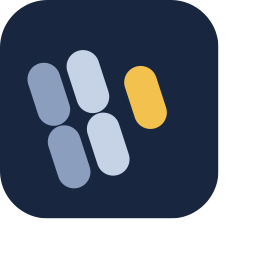
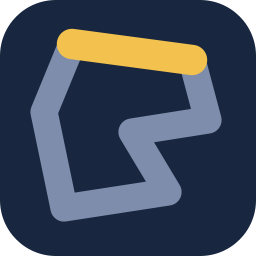
feat(brand): the mark becomes a circuit, not a peloton
The peloton seen from above answered "where am I in this bunch". That
was a race-finder's question, and this is no longer a race finder — it
is meant to give an amateur the preparation a professional gets: who is
racing, what the circuit does, which way the wind crosses it. The mark
was answering a question the product had stopped asking.

French amateur racing is laps of a village loop. The mark is that loop,
traced the way a route is drawn on a map, with one stretch in the yellow
of a course arrow — the sector where the race is decided. Anyone can
tell a rider that a race exists; this says where it is won.

Four directions were drawn and compared at 16, 24 and 96px. A soft
closed curve read as a pebble rather than a circuit, so the loop keeps
its straights and corners. Riders strung along the circuit — the idea
that would settle any motorsport ambiguity — disappear entirely below
24px, so the wordmark carries that job instead.

diff --git a/components/brand/Logo.tsx b/components/brand/Logo.tsx
@@ -1,13 +1,29 @@
 import { cn } from "@/lib/utils";
 
 /**
- * The peloton, seen from above.
+ * A circuit, with the sector that decides it.
  *
- * Two ranks of riders and one off the front — the product's own thesis, that
- * you are somewhere in this bunch and the point is to know where. It replaces
- * a stock bicycle icon that a thousand other apps also use, and it is drawn
- * from five capsules so it survives down to a 16px tab icon.
+ * French amateur racing is laps of a village loop, and this product exists to
+ * tell a rider what that loop will do to them before they start — who is on it,
+ * where it climbs, which way the wind crosses it. So the mark is the circuit,
+ * traced the way a route is drawn on a map, with one stretch picked out in the
+ * yellow of a course arrow: the place the race is won.
+ *
+ * It replaced a peloton seen from above, which answered a different question —
+ * "where am I in this bunch" — from a product that had become about arriving
+ * prepared rather than about finding races.
+ *
+ * Drawn from two paths so it survives a 16px tab icon: at that size it reads as
+ * a dark loop with a bright straight, which is enough to recognise.
  */
+
+/** Straights and corners, because a lap has both. A soft blob read as a pebble. */
+const CIRCUIT =
+  "M 9 5.5 L 24 7.5 L 26 15 L 16.5 16.5 L 21 24 L 8 26 L 5.5 14 Z";
+
+/** The opening straight, where a break goes. */
+const SECTOR = "M 9 5.5 L 24 7.5";
+
 export function Logo({
   className,
   tile = true,
@@ -24,12 +40,14 @@ export function Logo({
       aria-label="PelotonFR"
     >
       {tile && <rect width="32" height="32" rx="7" fill="#18263F" />}
-      <g transform="translate(16 16) rotate(-18) scale(0.86)">
-        <rect x="-11.8" y="-11.1" width="5.6" height="11" rx="2.8" fill="#8C9EBE" />
-        <rect x="-11.8" y="0.1" width="5.6" height="11" rx="2.8" fill="#8C9EBE" />
-        <rect x="-4.8" y="-11.1" width="5.6" height="11" rx="2.8" fill="#C6D2E6" />
-        <rect x="-4.8" y="0.1" width="5.6" height="11" rx="2.8" fill="#C6D2E6" />
-        <rect x="3.7" y="-5.5" width="5.6" height="11" rx="2.8" fill="#F2C14E" />
+      <g fill="none" strokeLinecap="round" strokeLinejoin="round">
+        <path
+          d={CIRCUIT}
+          stroke={tile ? "#7D8DAB" : "currentColor"}
+          strokeWidth="3.4"
+          opacity={tile ? 1 : 0.45}
+        />
+        <path d={SECTOR} stroke="#F2C14E" strokeWidth="3.8" />
       </g>
     </svg>
   );

diff --git a/AGENTS.md b/AGENTS.md
@@ -11,13 +11,19 @@ of an identity is that it holds when nobody is looking at it.
 
 ## The mark
 
-A peloton seen from above — two ranks of riders with one off the front, in
-`components/brand/Logo.tsx`. Five capsules, no more: it has to survive a 16px
-tab icon. Use `<Logo />` and `<Wordmark />`; never a bicycle icon from an icon
+A circuit with its decisive sector, in `components/brand/Logo.tsx`. French
+amateur racing is laps of a village loop, and this product exists to tell a
+rider what that loop will do to them before they start. So the mark is the
+circuit, traced the way a route is drawn on a map, with one stretch in the
+yellow of a course arrow: the place the race is won.
+
+Straights and corners, never a soft blob — a smooth loop reads as a pebble.
+Two paths, no more: at 16px it has to survive as a dark loop with a bright
+straight. Use `<Logo />` and `<Wordmark />`; never a bicycle icon from an icon
 set, which is what a thousand other apps already use.
 
-The rider off the front is always the accent yellow. That is the product's
-thesis — you are somewhere in this bunch, and the point is to know where.
+The yellow sector is the product's thesis. Anyone can tell you a race exists;
+this tells you where it is decided.
 
 ## Two registers
 
